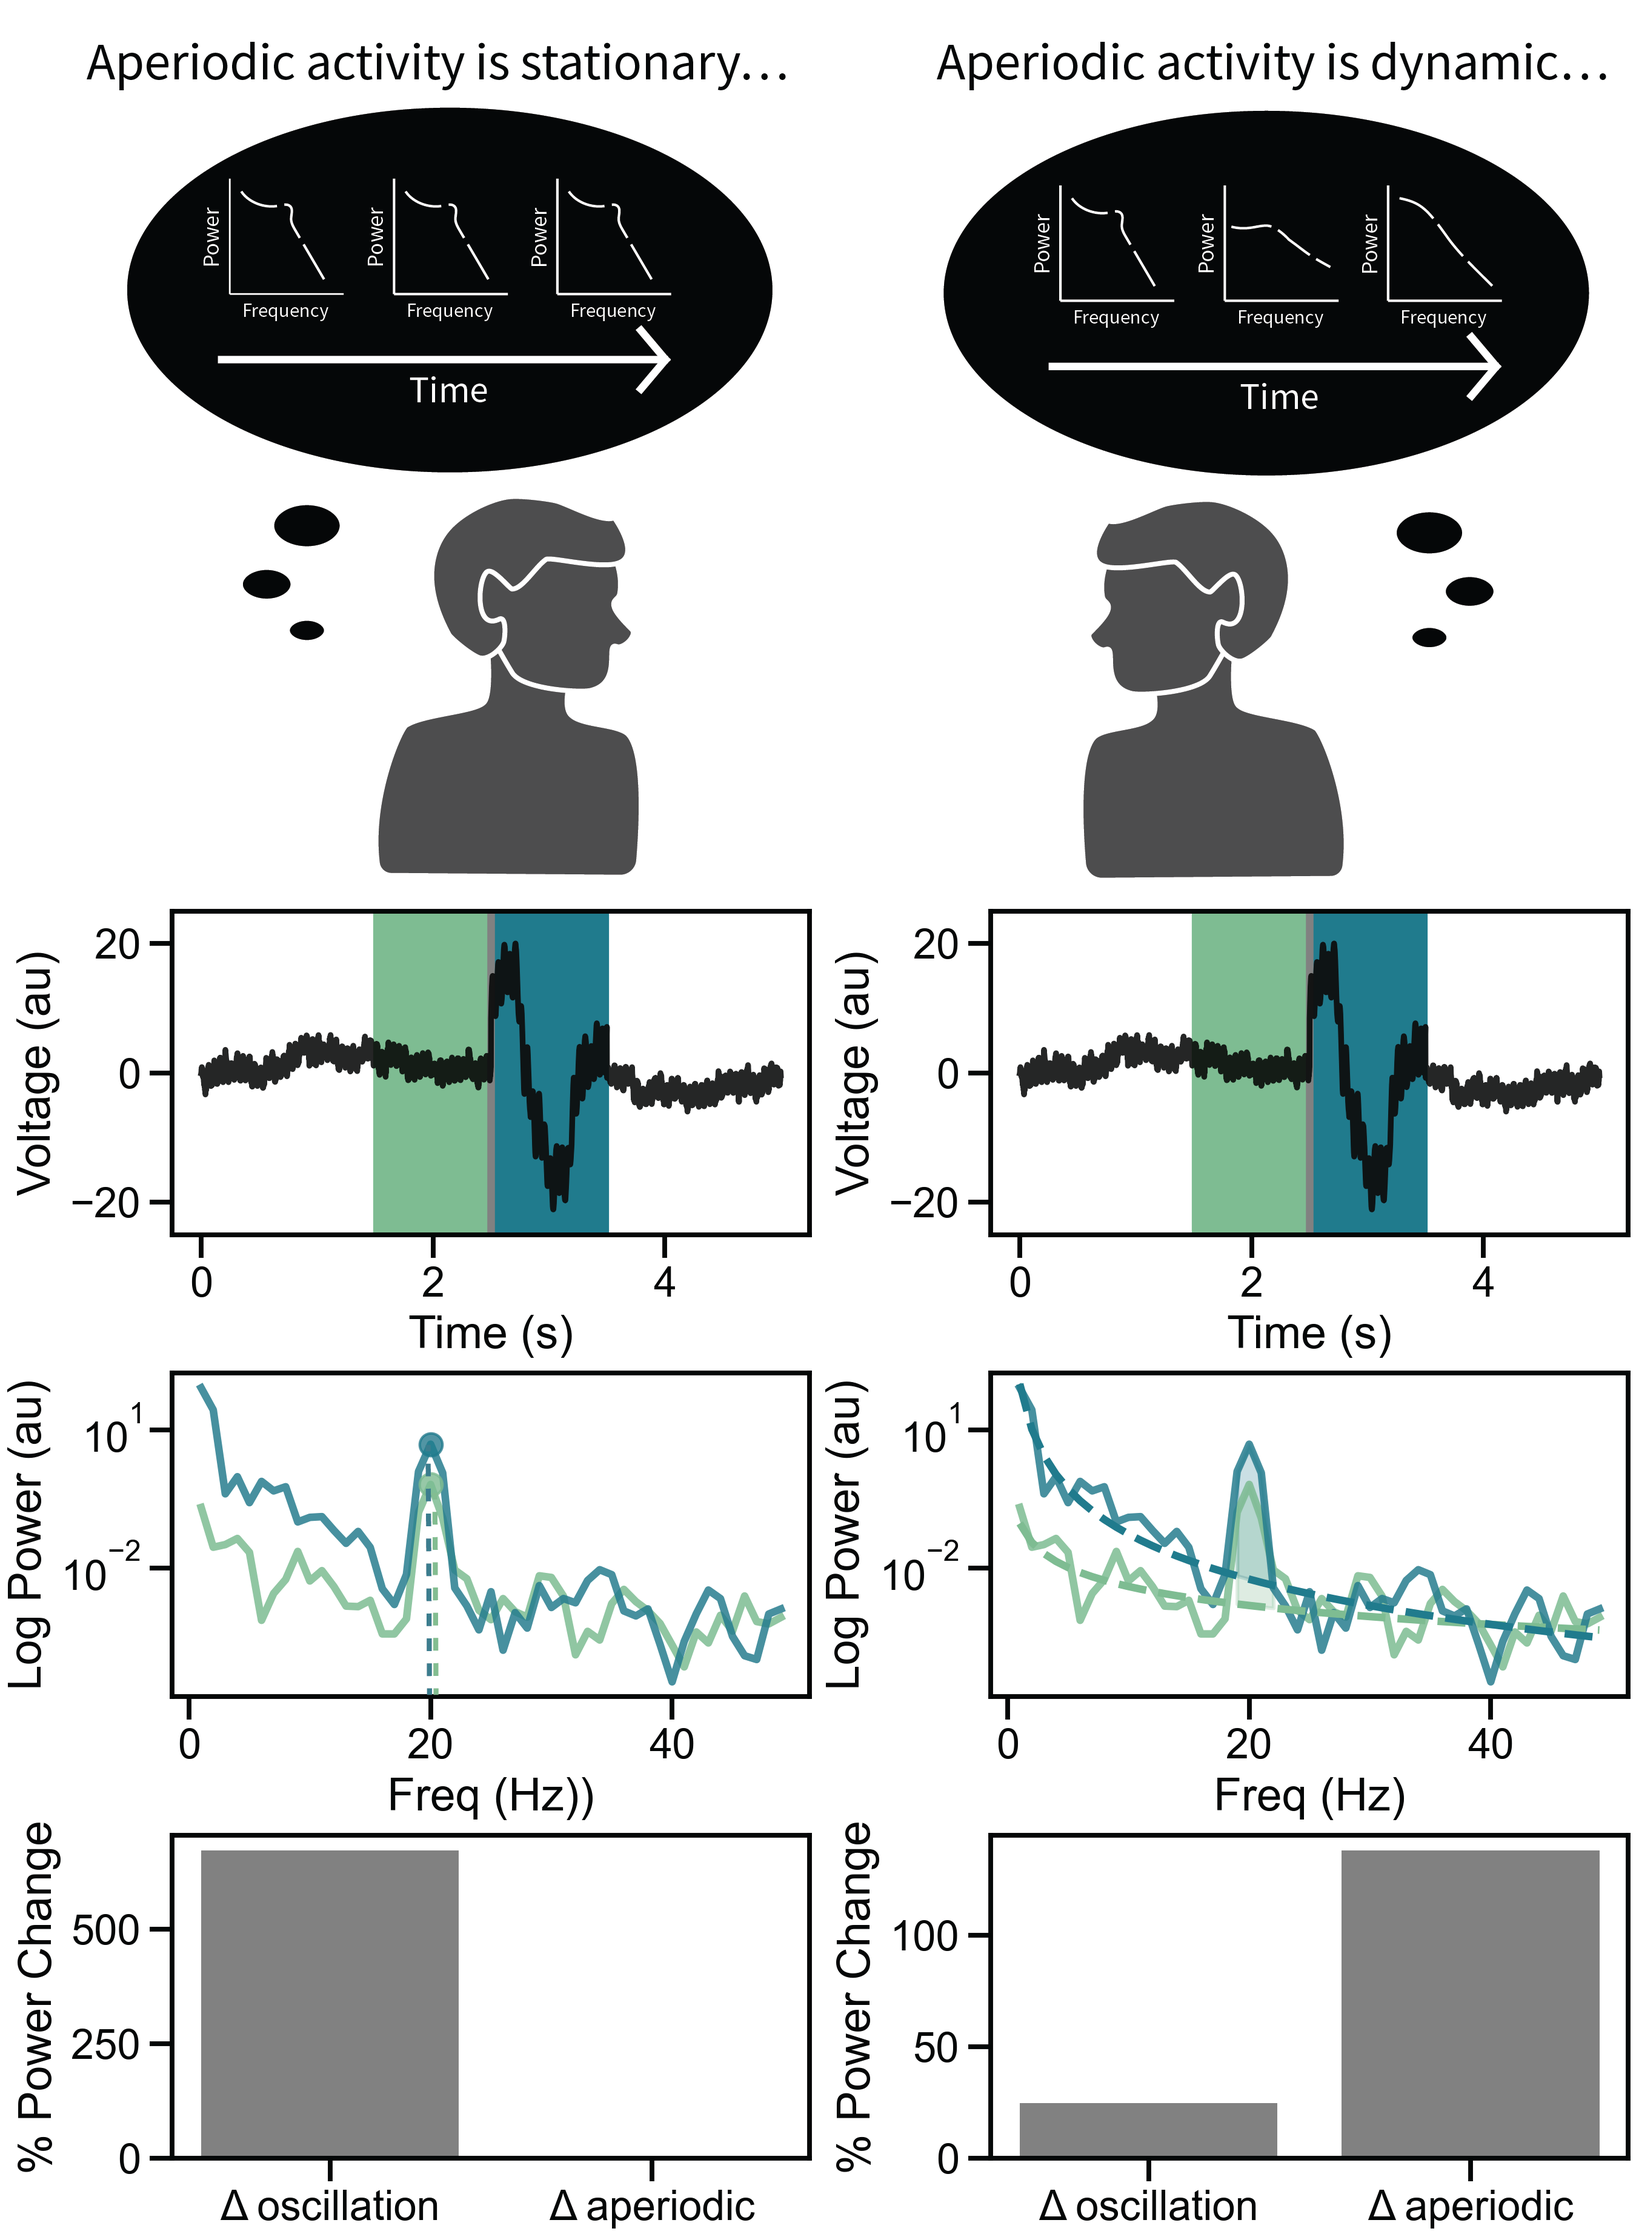
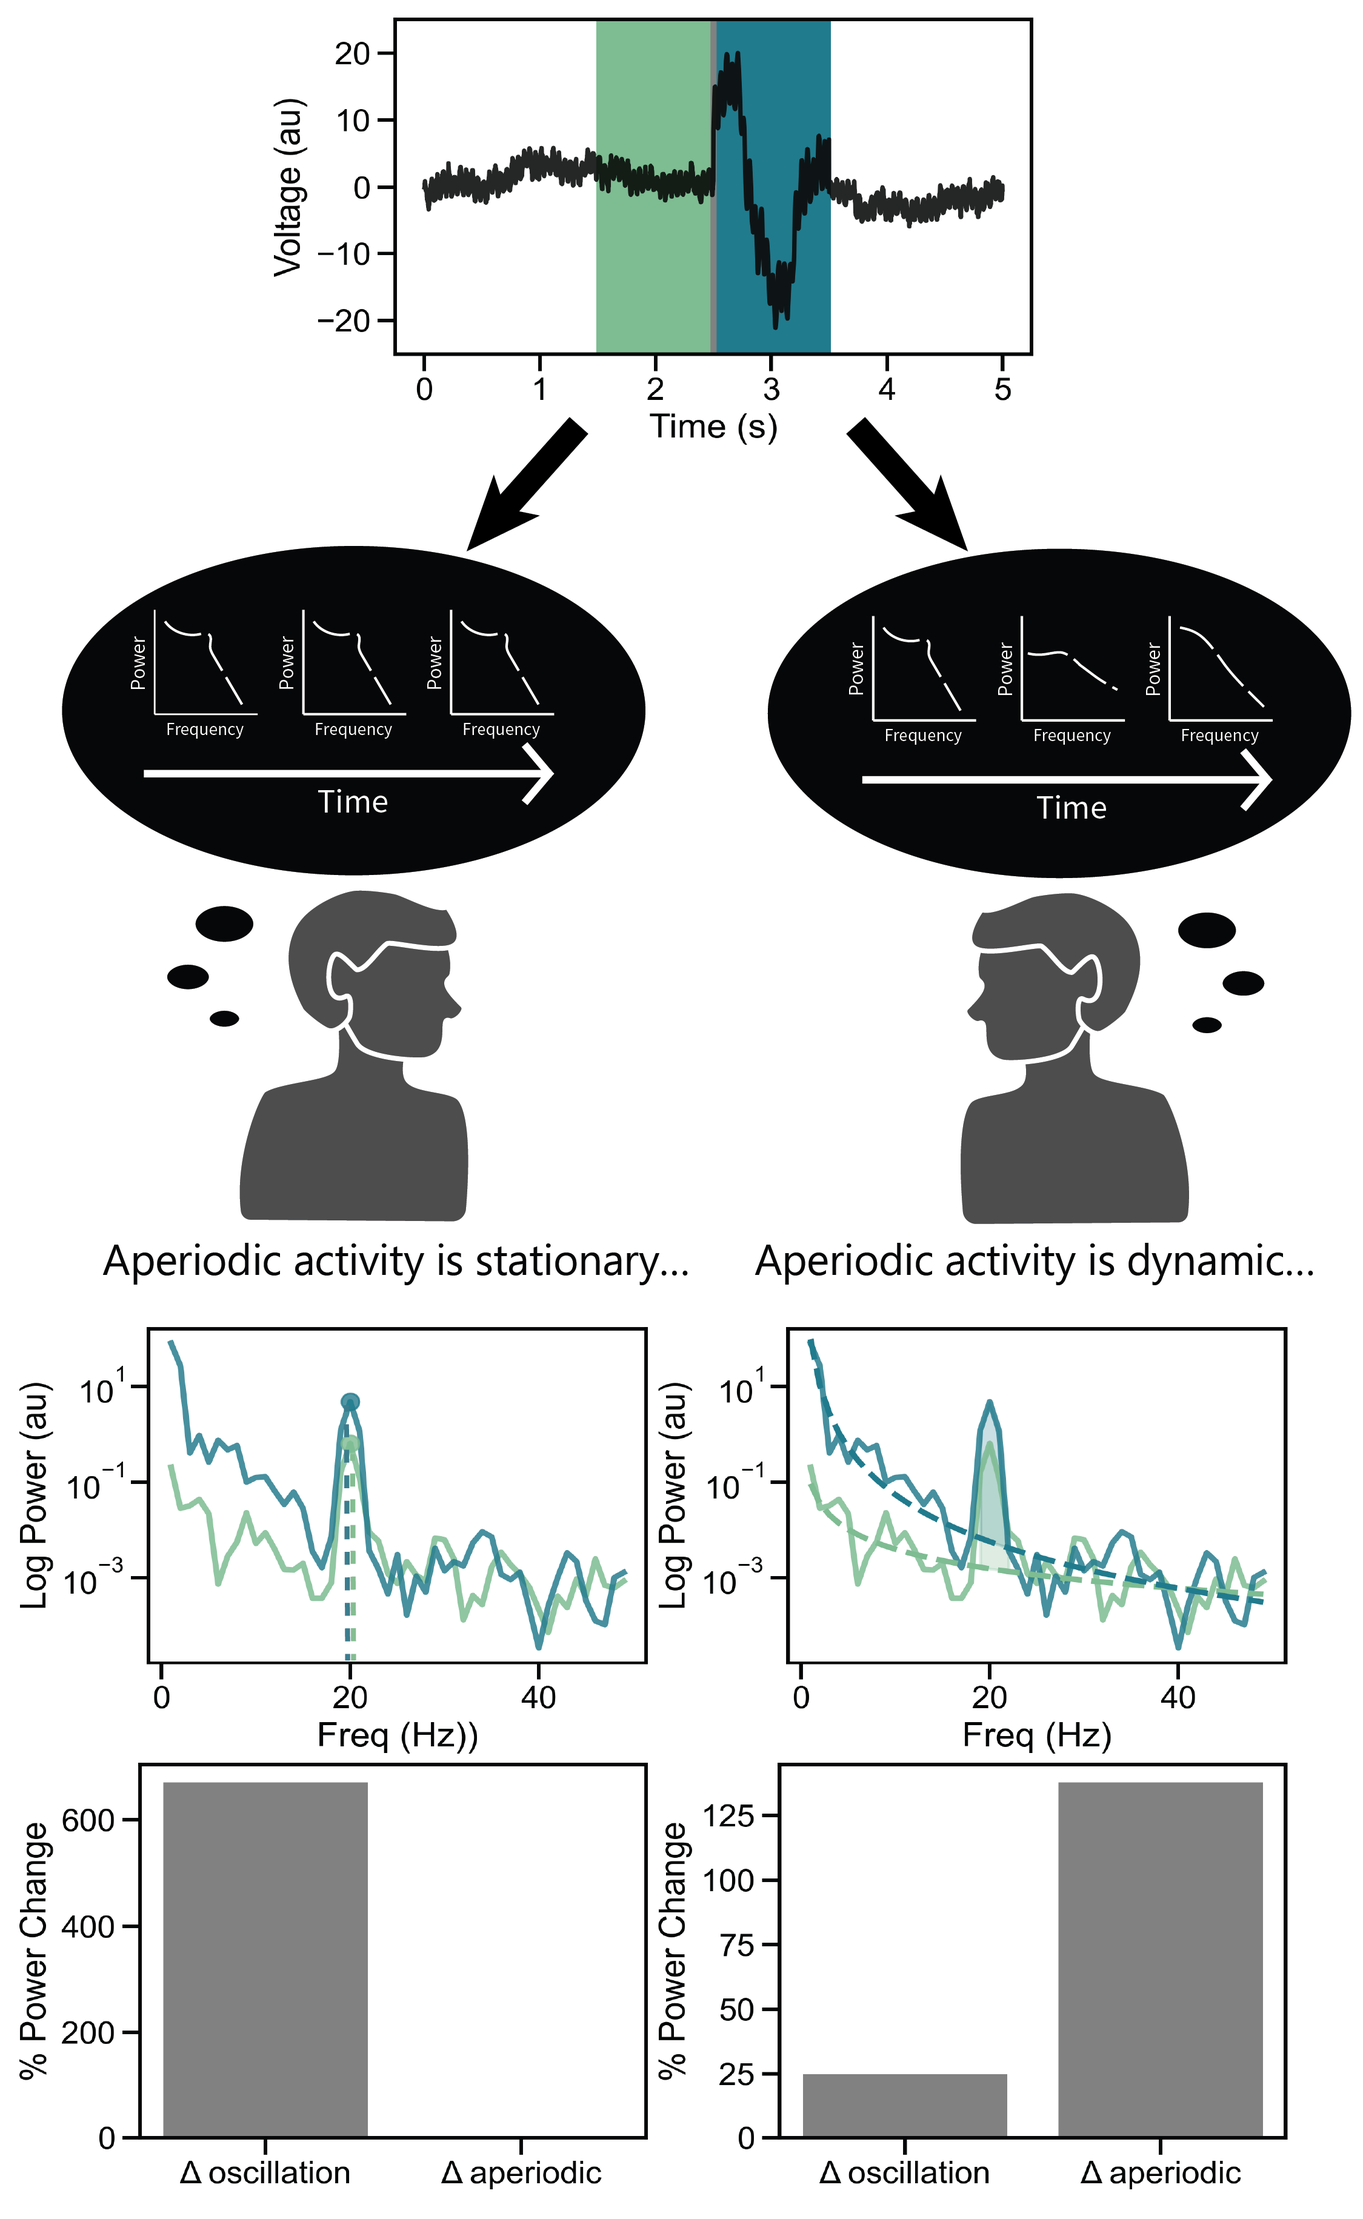
final edits to fig 1

diff --git a/scripts/intro_fig.py b/scripts/intro_fig.py
@@ -44,7 +44,7 @@ from tfr_utils import plot_evoked_tfr
 
 # settings - figure
 plt.style.use('mplstyle/nature_reviews.mplstyle')
-FIGSIZE = [FIGURE_WIDTH+2, 10]
+FIGSIZE = [FIGURE_WIDTH+2, 17]
 # TIME_POINTS = [-0.35, -0.25, -0.15, 1.35] # which to plot
 # COLORS = sns.color_palette("Greens", len(TIME_POINTS))
 TITLE_FONTSIZE = PANEL_FONTSIZE - 5
@@ -85,8 +85,8 @@ def main():
 
     # create figure and gridspec
     fig = plt.figure(figsize=FIGSIZE, constrained_layout=True)
-    gs = gridspec.GridSpec(figure=fig, ncols=2, nrows=4, 
-                           height_ratios=[0.75, 0.5, 0.5, 0.5])
+    gs = gridspec.GridSpec(figure=fig, ncols=1, nrows=5, 
+                           height_ratios=[0.5,1, 0.5, 0.5, 0.1])
 
     # # Add variable freq range plots
     # ax_e = gridspec.GridSpecFromSubplotSpec(1, 4, subplot_spec=gs[0],
@@ -95,42 +95,36 @@ def main():
     # plot_diff_time_wins(fig, plt.subplot(ax_e[3]))
 
     # Simulate and plot aperiodic + oscillation with events
+    ax_top = gridspec.GridSpecFromSubplotSpec(ncols=3, nrows=1, subplot_spec=gs[0], width_ratios=[2,5,2])
     events = [2.5]#[0.75, 1.25, 3.25, 4.5]
     event_win = 1
-    # sig_no, times_no = generate_modulated_signal(events, event_win, FS, rotate_aper=1)
-    sig_rot, times_rot = generate_modulated_signal(events, event_win, FS, rotate_aper=1) 
-    sig_no, times_no = sig_rot, times_rot
+    sig_no, times_no = generate_modulated_signal(events, event_win, FS, rotate_aper=1)
 
-    ax_no = fig.add_subplot(gs[2])
-    ax_rot = fig.add_subplot(gs[3])
+    ax_no = fig.add_subplot(ax_top[1])
     for ev in events: 
         ax_no.axvline(ev, color='grey', linewidth=3)
         ax_no.axvspan(xmin = ev-event_win, xmax=ev,  color = prestim_color)
         ax_no.axvspan(xmin = ev, xmax=ev+event_win, color = poststim_color)
-
-        ax_rot.axvline(ev, color='grey', linewidth=3)
-        ax_rot.axvspan(xmin = ev-event_win, xmax=ev,  color = prestim_color)
-        ax_rot.axvspan(xmin = ev, xmax=ev+event_win, color = poststim_color)
     # plot the timeseries    
     ax_no.plot(times_no, sig_no, color='k', alpha=0.85)
-    ax_rot.plot(times_rot, sig_rot, color='k', alpha=0.85)
     ax_no.set_ylim(TIMESERIES_YLIM)
-    ax_rot.set_ylim(TIMESERIES_YLIM)
 
     ax_no.set_xlabel('Time (s)')
     ax_no.set_ylabel('Voltage (au)')
-    ax_rot.set_xlabel('Time (s)')
-    ax_rot.set_ylabel('Voltage (au)')
 
     # Plot PSDs
-    ax_psd_no = fig.add_subplot(gs[4])
-    ax_psd_rot = fig.add_subplot(gs[5])
+    ax_mid = gridspec.GridSpecFromSubplotSpec(ncols=2, nrows=1, subplot_spec=gs[2],
+                                            width_ratios=[1,1])
+    ax_psd_no = fig.add_subplot(ax_mid[0])
+    ax_psd_rot = fig.add_subplot(ax_mid[1])
 
     # Plot barplots of spectral params
-    ax_bar_no = fig.add_subplot(gs[6])
-    ax_bar_rot = fig.add_subplot(gs[7])
+    ax_bottom = gridspec.GridSpecFromSubplotSpec(ncols=2, nrows=1, subplot_spec=gs[3],
+                                            width_ratios=[1,1])
+    ax_bar_no = fig.add_subplot(ax_bottom[0])
+    ax_bar_rot = fig.add_subplot(ax_bottom[1])
 
-    axes_list = [(ax_psd_no, ax_bar_no, sig_no, 1),(ax_psd_rot, ax_bar_rot, sig_rot, 0)]
+    axes_list = [(ax_psd_no, ax_bar_no, sig_no, 1),(ax_psd_rot, ax_bar_rot, sig_no, 0)]
     ev = events[0]
     ev_idx = int(ev*FS)
     for ax_a, ax_b, signal, tb in axes_list:
